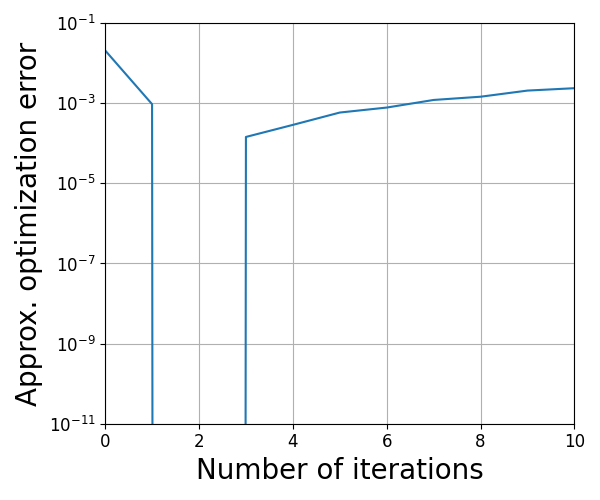
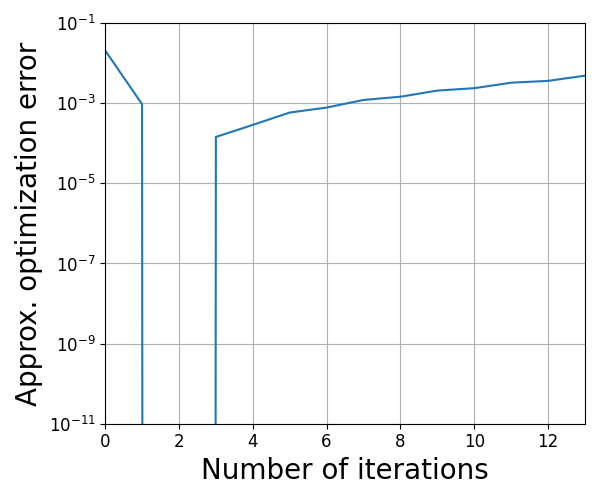
Set the range of bad experiments.

diff --git a/expr_QuantumAugustin.py b/expr_QuantumAugustin.py
@@ -170,7 +170,7 @@ for alpha in alphas:
     f_values = [f(sigma / np.trace(sigma), rhos, P, alpha)]
 
     # Perform the iterative process
-    T = 10
+    T = 30
     for i in range(T):
         sigma = SimpleIteration(sigma, rhos, P, alpha)
         sigma/=np.trace(sigma)
@@ -196,7 +196,7 @@ for alpha in alphas:
     plt.ylabel('Approx. optimization error',fontsize=20)
     plt.yscale('log')  # Set log scale for y-axis
     plt.ylim(1e-11,1e-1)
-    plt.xlim(0, 10)
+    plt.xlim(0, 13)
     plt.tick_params(axis='both',which='major',labelsize=12)
     plt.grid(True)
 
